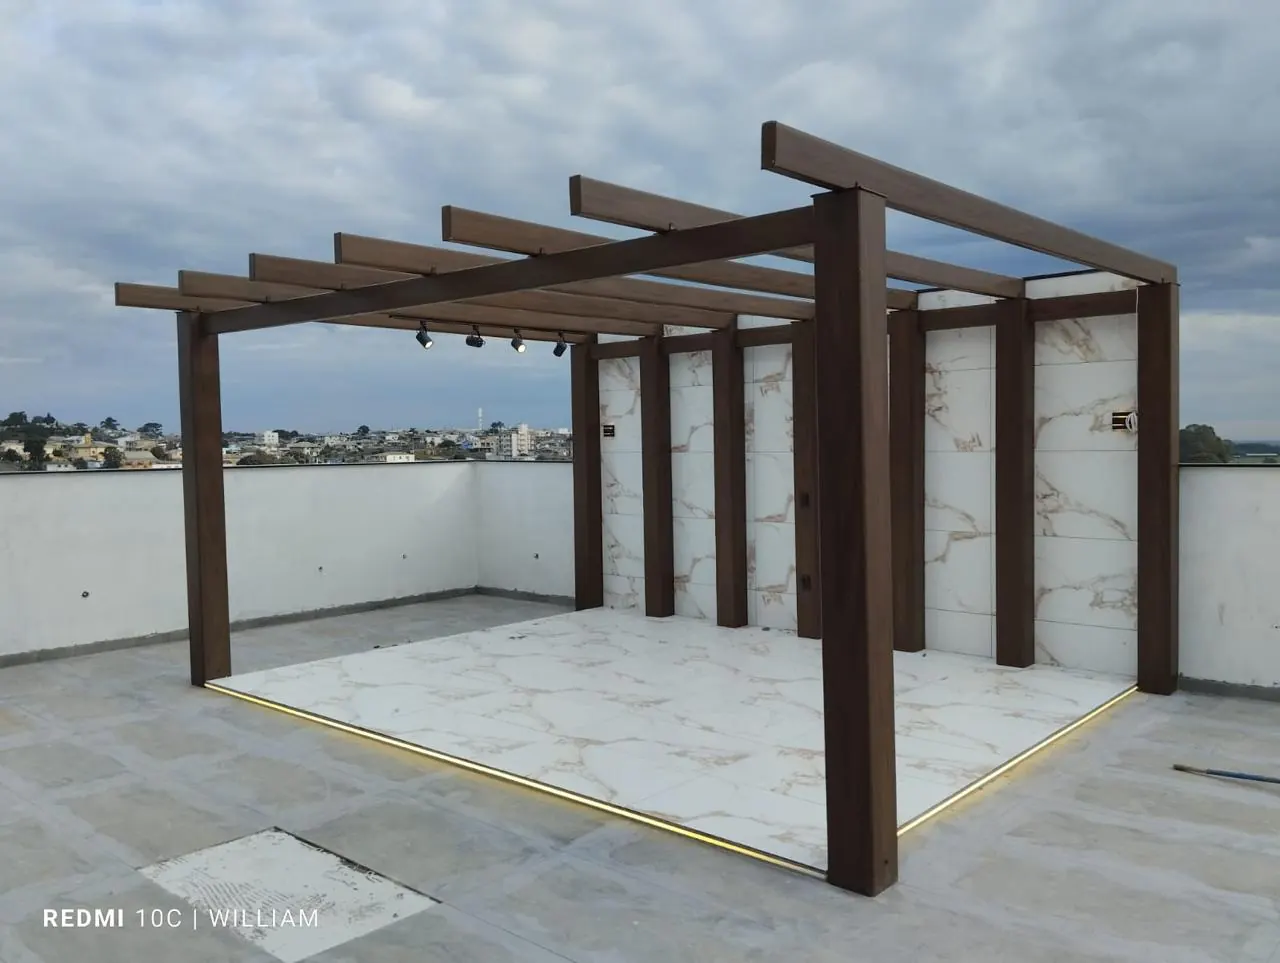
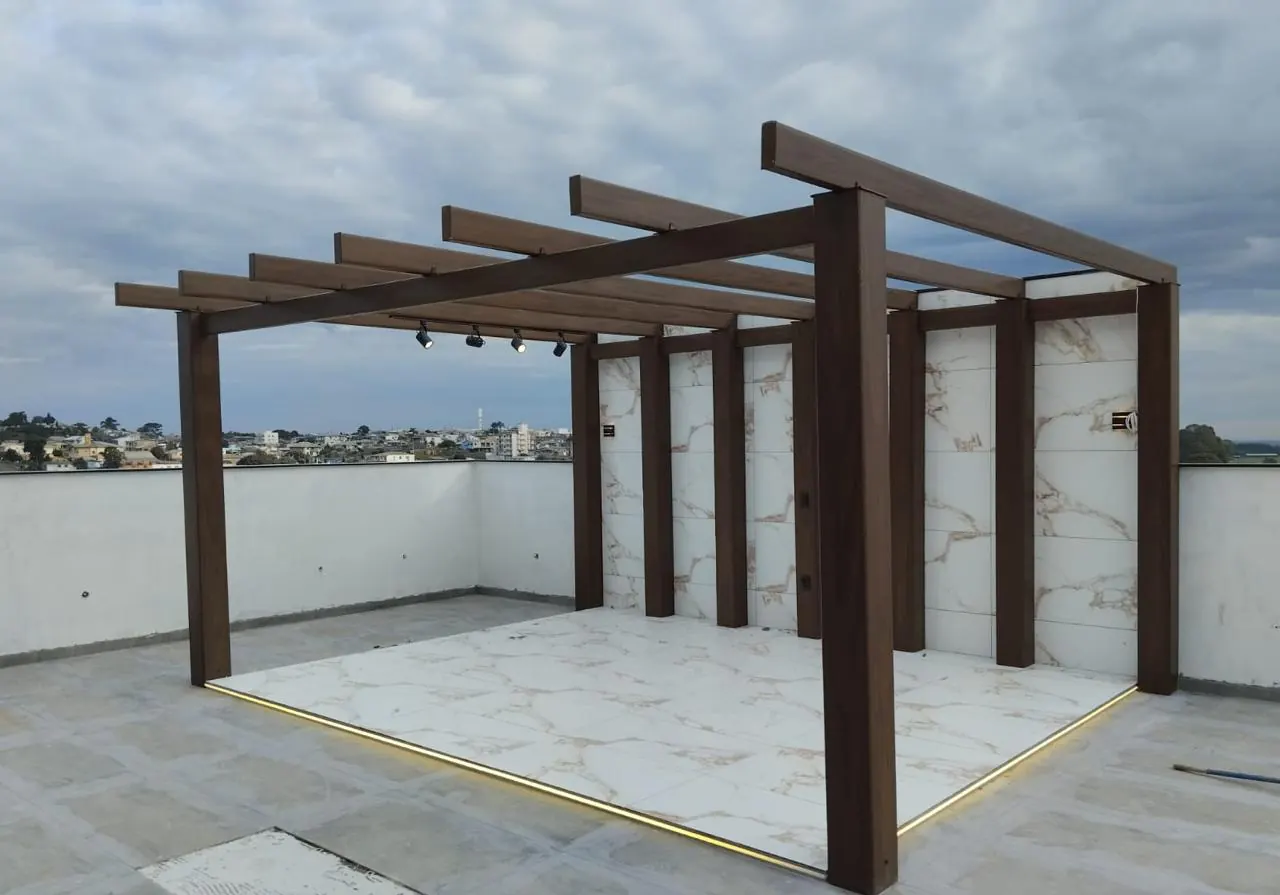
Ajustes de imagem, enquadramento e cache
- Pergolado 3D do herói não é mais cortado na borda: removido o sangramento
  para fora da seção, que tem overflow-hidden, e dada folga na câmera.
- Faixas de scroll reexportadas em resolução e qualidade maiores (2400px / 88,
  flow-01 a 92 no tamanho nativo do original). Mesma coisa na foto do
  "barato sai caro", que ocupa uma coluna inteira.
- .htaccess: imagem tem nome fixo e é substituída, então não pode ser
  immutable por um ano. Cache eterno agora só para css/js, que saem do Vite
  com hash. Imagem passa a revalidar em um dia.
- ?v=2 nas quatro fotos que trocaram de conteúdo mantendo o nome de arquivo
  (flow-01, flow-02, madeira-pinus, madeira-angelim), para furar o cache de
  quem já visitou.
- Fundos das avaliações e do CTA final com mais visibilidade (0,45 e 0,50) e
  véus mais leves.
- Rodapé das avaliações encurtado e parallax da foto do Jonathan reduzido para
  ±3,5% com espaço acima da cabeça: o topo saía cortado em parte do scroll.
- Marca d'água removida da foto da Madeira Ecológica.

diff --git a/src/sections/QuemFabrica.tsx b/src/sections/QuemFabrica.tsx
@@ -7,7 +7,7 @@ const EASE = [0.16, 1, 0.3, 1] as const;
 export function QuemFabrica() {
   const ref = useRef<HTMLDivElement>(null);
   const { scrollYProgress } = useScroll({ target: ref, offset: ["start end", "end start"] });
-  const desloca = useTransform(scrollYProgress, [0, 1], ["-7%", "7%"]);
+  const desloca = useTransform(scrollYProgress, [0, 1], ["-3.5%", "3.5%"]);
 
   return (
     <section id="sttilo" className="relative bg-serragem text-tinta">
@@ -58,7 +58,7 @@ export function QuemFabrica() {
             src="/img/jonathan.webp"
             alt="Jonathan, responsável pela Sttilo Móveis, na oficina"
             loading="lazy"
-            className="absolute inset-0 h-[114%] w-full object-cover"
+            className="absolute inset-0 h-[108%] w-full object-cover object-[50%_30%]"
           />
         </div>
       </div>

diff --git a/src/sections/Provas.tsx b/src/sections/Provas.tsx
@@ -70,11 +70,11 @@ export function Provas() {
   }, [embla]);
 
   return (
-    <section className="relative overflow-hidden bg-noite py-24 md:py-28">
+    <section className="relative overflow-hidden bg-noite pb-16 pt-24 md:pb-20 md:pt-28">
       <FundoSecao
         src="/img/fundo-01.webp"
-        opacidade={0.28}
-        veu="linear-gradient(180deg, rgba(10,19,48,.93) 0%, rgba(10,19,48,.8) 45%, rgba(10,19,48,.95) 100%)"
+        opacidade={0.45}
+        veu="linear-gradient(180deg, rgba(10,19,48,.88) 0%, rgba(10,19,48,.66) 45%, rgba(10,19,48,.9) 100%)"
       />
 
       <div className="relative z-conteudo">

diff --git a/src/pages/Home.tsx b/src/pages/Home.tsx
@@ -26,7 +26,7 @@ export function Home() {
         <Dor />
 
         <FaixaScroll
-          src="/img/flow-01.webp"
+          src="/img/flow-01.webp?v=2"
           alt="Pergolado de madeira cobrindo uma área externa"
           frase="A sombra certa muda o uso do espaço inteiro."
         />
@@ -39,7 +39,7 @@ export function Home() {
         <Portfolio />
 
         <FaixaScroll
-          src="/img/flow-02.webp"
+          src="/img/flow-02.webp?v=2"
           alt="Estrutura de madeira natural em área de lazer"
           frase="Cada peça sai da oficina pronta para subir."
         />

diff --git a/src/data/content.ts b/src/data/content.ts
@@ -129,7 +129,7 @@ export const madeiras: Madeira[] = [
     nome: "Pinus Tratado",
     nivel: 1,
     nivelTag: "Custo benefício",
-    img: "/img/madeira-pinus.webp",
+    img: "/img/madeira-pinus.webp?v=2",
     cor: "#C08A4E",
     bullets: [
       "15 anos de garantia de fábrica",
@@ -143,7 +143,7 @@ export const madeiras: Madeira[] = [
     nome: "Angelim Pedra",
     nivel: 2,
     nivelTag: "Madeira nobre",
-    img: "/img/madeira-angelim.webp",
+    img: "/img/madeira-angelim.webp?v=2",
     cor: "#9C5333",
     bullets: [
       "Tom avermelhado natural que valoriza o ambiente",

diff --git a/src/components/Pergolado3D.tsx b/src/components/Pergolado3D.tsx
@@ -321,7 +321,7 @@ export function Pergolado3D({ className = "" }: { className?: string }) {
         const ce = eOut(cl(t / 8.4));
         const idle = Math.max(0, t - 8.4);
         const ang = -0.78 + ce * 0.36 + Math.sin(idle * 0.13) * 0.15;
-        const rad = (12.6 - ce * 4.7) * radK;
+        const rad = (13.0 - ce * 4.3) * radK;
         const hgt = 0.95 + ce * 1.6 + Math.sin(idle * 0.1) * 0.12;
         camera.position.set(Math.sin(ang) * rad, hgt, Math.cos(ang) * rad);
         camera.lookAt(0, 1.15 + ce * 0.28, 0);

diff --git a/src/sections/CtaFinal.tsx b/src/sections/CtaFinal.tsx
@@ -13,8 +13,8 @@ export function CtaFinal() {
     <section className="relative overflow-hidden py-28 text-center md:py-36">
       <FundoSecao
         src="/img/fundo-02.webp"
-        opacidade={0.3}
-        veu="linear-gradient(180deg, rgba(10,19,48,.95) 0%, rgba(10,19,48,.84) 50%, rgba(10,19,48,.96) 100%)"
+        opacidade={0.5}
+        veu="linear-gradient(180deg, rgba(10,19,48,.9) 0%, rgba(10,19,48,.68) 50%, rgba(10,19,48,.92) 100%)"
       />
 
       <div className="wrap relative z-conteudo">

diff --git a/src/sections/Hero.tsx b/src/sections/Hero.tsx
@@ -92,7 +92,7 @@ export function Hero() {
           initial={reduzido ? { opacity: 0 } : { opacity: 0, y: 26 }}
           animate={{ opacity: 1, y: 0 }}
           transition={{ duration: 1.1, ease: EASE, delay: 0.2 }}
-          className="relative lg:-mr-[5vw] xl:-mr-[7vw]"
+          className="relative"
         >
           {/* clarão atrás da peça: é o que dá profundidade e cola a estrutura no fundo */}
           <div
